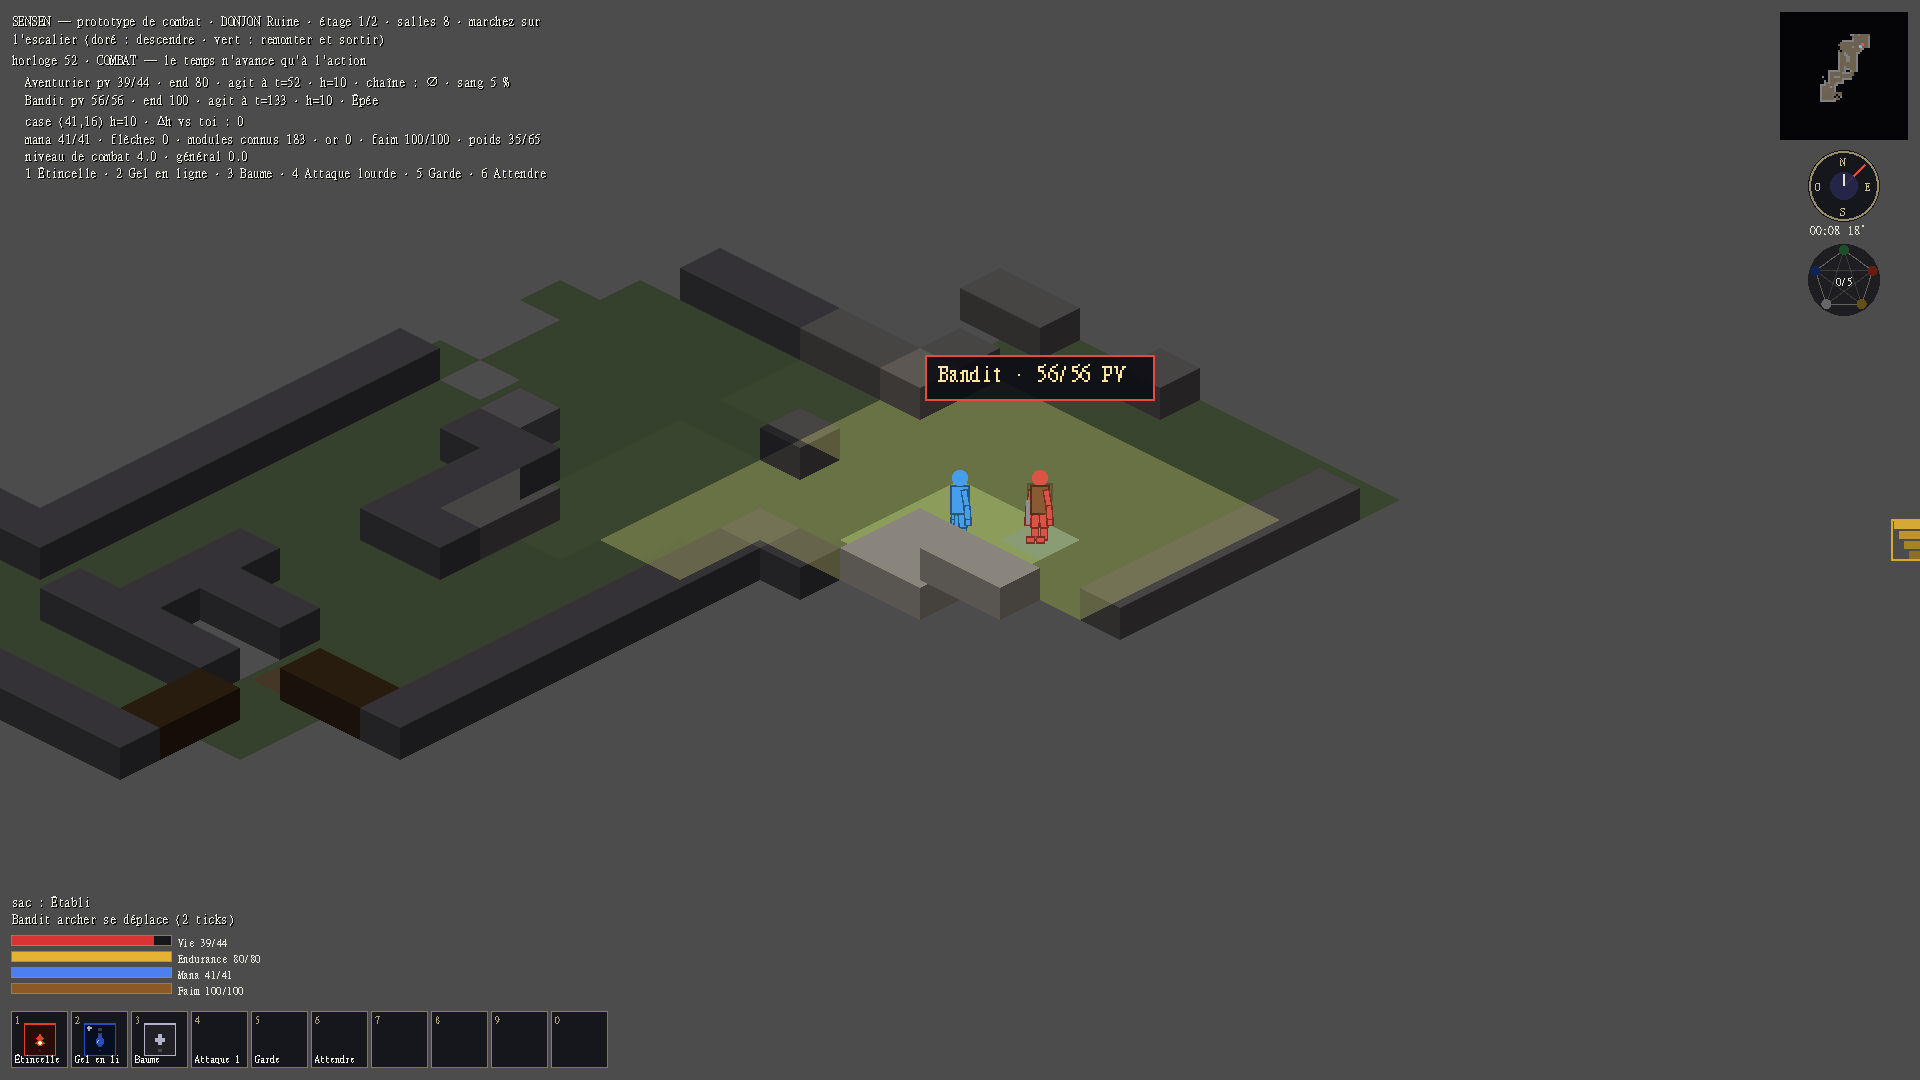
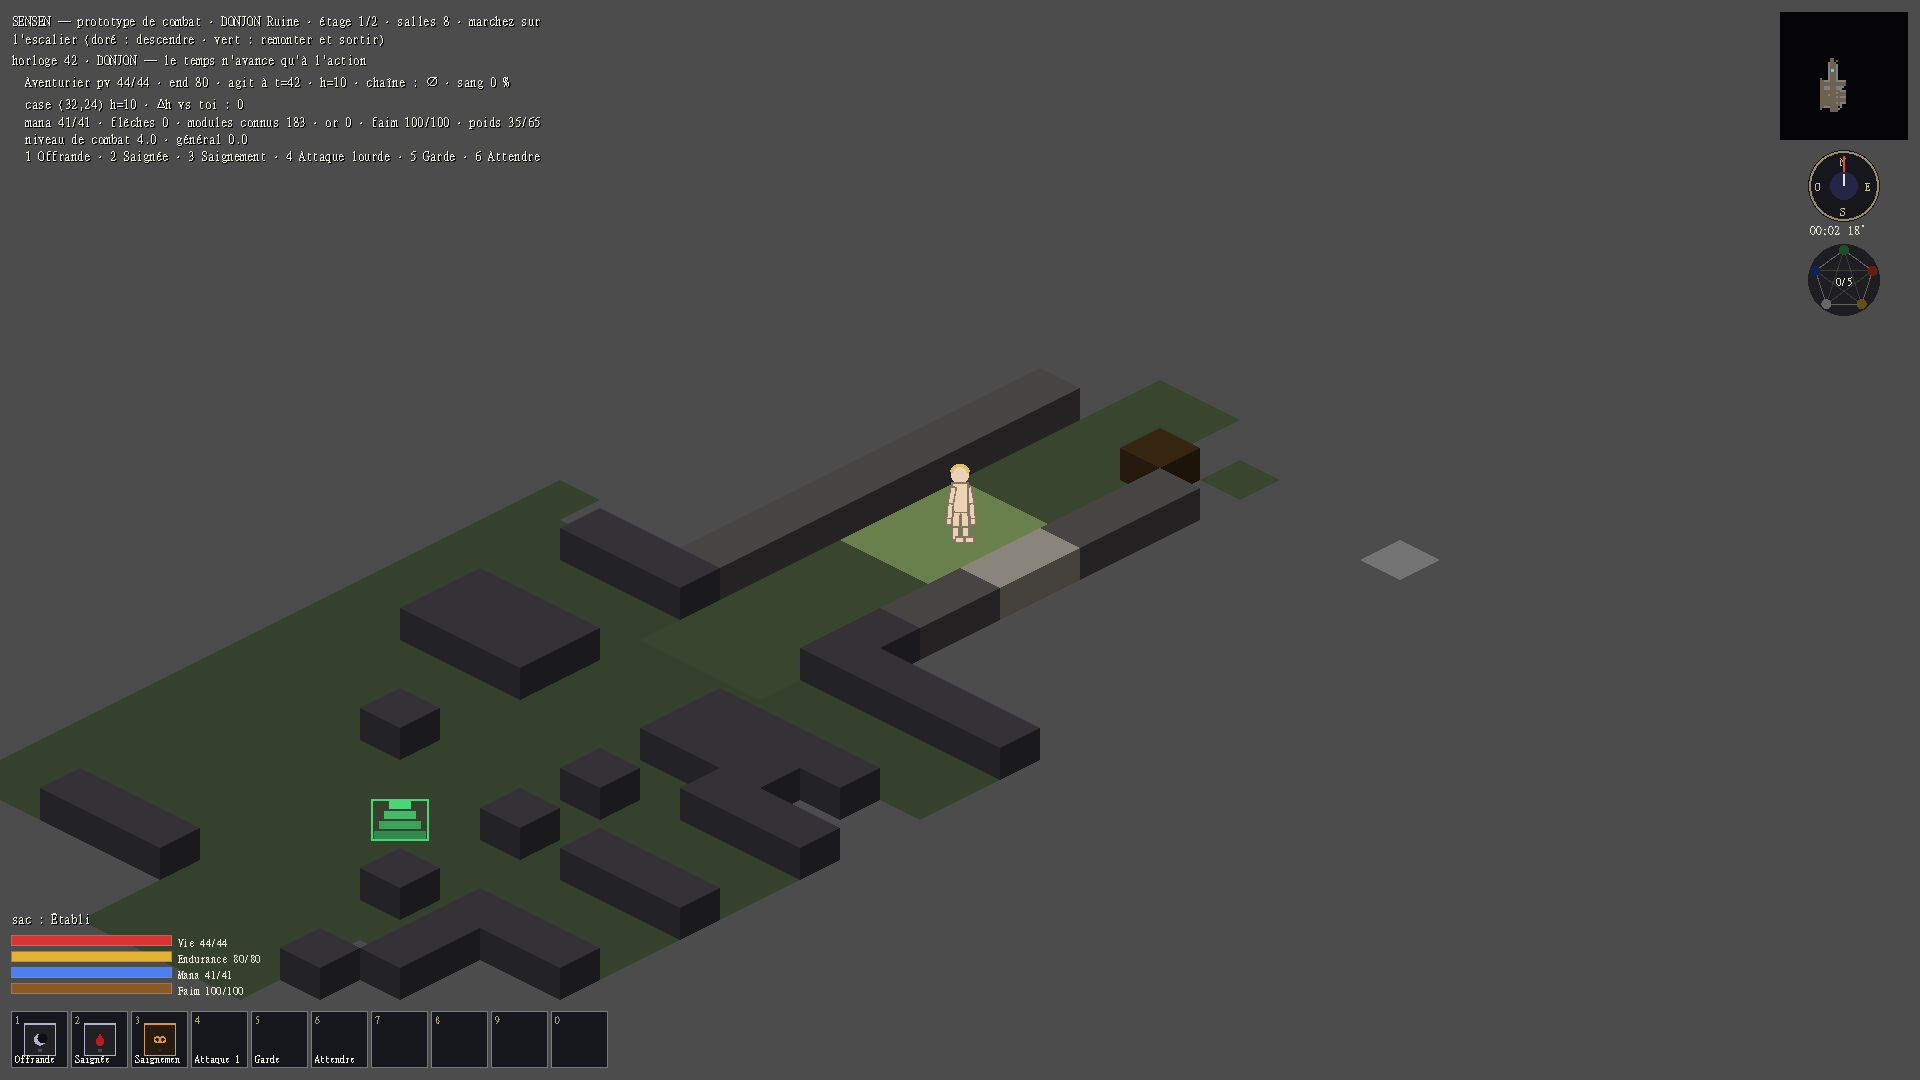
Donjons carres, plus de gel, et le loot pour tous
Le monde d'un donjon n'avance plus que de cinq ticks et douze
millisecondes par image : le gel disparait sans ralentir le jeu. Les
etages deviennent franchement architecturaux -- salles carrees jusqu'a
vingt-six de cote, couloirs droits et larges, branchements nombreux -- et
la generation redescend a 55 ms en tirant ses impasses par piece au lieu
de recopier tout le sol. Marcher sur un ennemi adjacent le frappe, le
voile jaune disparait, E ne casse plus les murs ni le sol, les meubles
sont des blocs plus petits que leur case, chaque ennemi laisse un objet,
les coffres doublent, et le clic droit ouvre les actions d'un objet du sac.

diff --git a/docs/00 - Index/Vers la production.md b/docs/00 - Index/Vers la production.md
@@ -64,6 +64,12 @@ etape: 0
 > **Ajout du designer (2026-08-31, 3 h 25)** : 29. **Corrigé (2026-08-31, 3 h 40)** — ce n'était pas le CPU : la cadence de lisibilité (0,12 s par pas) s'appliquait à l'horloge du monde du donjon, et chaque « attend » de chaque PNJ la consommait (30 PNJ ≈ 4 s de gel par action du joueur) ; l'horloge du monde se vide maintenant chaque image ([[Boucle de tick]]). **Le jeu lague énormément en donjon** (« ça galère à calculer tous les PNJ ? peut-être une réécriture C++ ? ») — diagnostiquer d'abord, chiffrer, corriger ; la question C++/GDExtension reste ouverte (point 5) et n'est tranchée qu'avec des mesures.
 > **Ajout du designer (2026-08-31, 3 h 45)** : 30. **Fait (2026-08-31, 5 h)** — matrice de quatre parcours (`parcours.tscn --classe --race --equiper --sorts`, film 30 s dans `captures_ecran/`) : Le Sabre humain équipé lourd, La Paume elfe (18 sorts lancés, 0 refusé, 3 morts), La Braise mage (9 sorts, 3 morts à l'étage 1 en 36 images), L'Ombre vampire (16 sorts, 0 mort, propre). **Zéro erreur de script** : le no-limit tient sous sorts aléatoires + équipement généré. Constat d'équilibre pour [[À juger — parcours de jeu]] § 3 : les profils fragiles meurent en boucle à l'étage 1 (la question « premier combat = mur » se confirme classe par classe). **Tester le dungeon crawling avec plein d'équipements, de sorts et de classes différents** — le robot s'équipe (objets assemblés, affixes), compose des sorts variés et les lance en combat, sur plusieurs classes ; corriger ce qui casse.
 > **Pré-version v0.1.6-alpha (2026-08-31, 18 h 25)** — dix commits depuis v0.1.5 : l'exécutable est reconstruit (`build/Sensen.exe`, 106 Mo) et archivé (`build/Sensen-v0.1.6-alpha-win64.zip`, 37 Mo), le **tag est poussé**. La publication de la release GitHub elle-même n'a pas pu être faite cette fois : la lecture du jeton du gestionnaire d'identifiants a été refusée par la politique d'outils de la session. L'archive et le tag attendent ; il suffit de téléverser l'archive sur la release du tag (ou de m'autoriser à relire le jeton) pour la publier.
+> **Ajout du designer (2026-08-31, 19 h 40)** : 46. **Fait (2026-08-31, 20 h 30)** — (a) le monde n'avance plus que de **5 ticks et 12 ms par image** (chiffres en données, `combat_rules.tempo`) : plus de gel ; (b) le voile jaune des tuiles atteignables est retiré, et avec lui son flood par image ; (c) marcher sur un ennemi adjacent l'attaque ; (d) donjons carrés — salles carrées jusqu'à 26 de côté, couloirs droits de 2-3 tuiles, 6 à 12 branchements ; (e) tout ennemi lâche du loot (0,25 → 1) et les coffres doublent (1 tuile sur 18) ; (f) chaque meuble porte une `emprise` et n'occupe plus toute sa case ; (g) creuser un mur, abaisser et élever le sol quittent le menu E ; (h) clic droit sur un objet du sac : équiper, lire, manger, sertir, poser, jeter. Au passage, la génération repassait à 103 ms (budget 100) à cause d'un `sol.keys()` par impasse sur des salles immenses — tirage par pièce, **55 ms** mesurés. **Huit demandes** — (a) **gros lag et freeze encore en donjon** : plafonner à **5 ticks par seconde réelle** au maximum ;
+> (b) **retirer l'overlay jaune** autour du personnage quand on s'approche d'un ennemi ; (c) **se diriger vers un ennemi adjacent l'attaque au corps à corps** au lieu de ne rien faire ;
+> (d) **génération de donjon beaucoup plus carrée, beaucoup moins organique** : des salles carrées de toutes tailles, des couloirs avec branchements, de grands espaces ouverts ;
+> (e) **des coffres**, et **tous les ennemis lâchent du loot** ; (f) un **meuble (coffre compris) est un bloc plus petit** qui ne remplit pas la case ;
+> (g) **retirer la casse de blocs et de sol avec E** ; (h) **clic droit sur les objets de l'inventaire**.
+> — [[Génération de donjon]], [[Écrans d'interface]], [[Boucle de tick]], [[Loot — affixes, gemmes et rareté]], [[Meubles]]
 > **Ajout du designer (2026-08-31, 18 h 40)** : 45. **Fait (2026-08-31, 19 h 30)** — charges supprimées du moteur, des données, du composeur et des règles (apprendre = définitif) ; tout livre n'enseigne qu'un module, grimoire et manuel se distinguant par leur pool (magique / corporel) ; les 19 classes déclarent leurs trois capacités signature et leur loadout de hotbar ; l'écran de création perd ses lignes de sorts ; le menu du clic droit perd ses neuf capacités déguisées. **Cinq changements de règle** — (a) **charges infinies** : apprendre un module est **définitif**, plus de munitions ; (b) **chaque classe a son loadout de hotbar** (armes et sorts) ; (c) **plus de sorts proposés à la création** — les sorts sont ceux de la classe ; (d) **plus de capacités spéciales au clic droit** : tout passe par les modules ; (e) **un livre ne contient qu'un module**. — [[Grimoires et manuels]], [[Structure compétences-modules-slots]], [[Écrans d'interface]], [[Lecture des livres]]
 > **Ajout du designer (2026-08-31, 17 h 50)** : 44. **Fait (2026-08-31, 18 h 20)** — ligne « Espèce » à la création : les 40 créatures du catalogue sont jouables (`Etres.appliquer_espece` remplace squelette, silhouette, teinte et actions naturelles, garde classe, points et sorts) ; les loci du visage et le portrait ne s'affichent que pour une silhouette humanoïde. Quatre loci de plus pour tous : taille, sourcils, barbe et marque. Test : chaque espèce jouable a bien un rig au catalogue. **Jouer n'importe quelle espèce, et plus de personnalisation** — toutes les créatures du catalogue doivent être choisissables à la création (loup, araignée, tengu…), et l'apparence doit offrir davantage de réglages. — [[Écrans d'interface]], [[Apparence — données et équipement]], [[Créatures]]
 > **Ajout du designer (2026-08-31, 17 h 15)** : 43. **Fait (2026-08-31, 17 h 40)** — avatar à ×5,4, portrait du visage à sa droite dans un cadre qui rogne (le même paperdoll, zoomé — pas un second dessin à maintenir), et le teint peint désormais le corps entier : la ligne « Teinte » et sa palette d'atelier ont disparu des données et des locales. **Un avatar plus grand et un portrait** — agrandir le personnage à l'écran de création, poser à sa droite une **vue du seul visage**, et peindre **tout le corps de la couleur de la peau** : le personnage est nu (sans détail anatomique). — [[Écrans d'interface]], [[Apparence — données et équipement]]

diff --git a/docs/02 - Monde/Génération de donjon.md b/docs/02 - Monde/Génération de donjon.md
@@ -108,6 +108,11 @@ NETTOYAGE ET DISPARITION (3.5) : à la mort du boss (`creature_killed`
 > [!success] Décidé et codé le 2026-08-31 — de vrais escaliers, pris en marchant (designer, point 36)
 > Les losanges doré et vert deviennent de **vraies marches dessinées par code** (quatre degrés qui rétrécissent, doré = descente, vert = montée), et **marcher sur l'escalier change d'étage automatiquement** : le pas du joueur qui arrive sur la cage déclenche la descente (ou la remontée — sur l'étage 1, elle fait ressortir au camp). Les intentions `descendre`/`remonter`, la touche E et les options contextuelles restent valables (les tests et la triche s'en servent), mais ne sont plus nécessaires. Le spawn sur l'escalier d'arrivée ne re-déclenche rien : seul un **pas** sur la tuile compte. Les PNJ ne changent jamais d'étage. Le robot de parcours détecte le changement d'étage au lieu de l'ordonner.
 
+> [!success] Décidé et codé le 2026-08-31 — des donjons carrés (designer, point 46)
+> Le designer tranche contre l'organique : **salles carrées de toutes tailles** (4-6, 8-11, 13-17 et des **salles immenses** de 20 à 26 côtés), **couloirs droits** — un L franc, plus de marche au hasard — de deux à trois tuiles de large, et des **branchements** rectilignes plus nombreux (6 à 12 par étage). Deux drapeaux en données le pilotent, `salles_carrees` et `couloirs.droits` : un thème peut redevenir sinueux sans toucher au code. Les grands espaces ouverts viennent des salles immenses et des couloirs larges, pas d'un bruit de terrain.
+>
+> Au passage, deux règles du même jour : **tous les ennemis lâchent du loot** (`chance_tout_venant` passe de 0,25 à 1) et les **coffres doublent** (une tuile sur 18 au lieu de 40, un à trois objets). Un **meuble n'occupe plus toute sa case** : chaque fiche porte une `emprise` (0,58 pour un coffre, 0,78 pour un lit ou une station) et le bloc est dessiné d'autant plus petit et plus bas. Enfin, **E ne casse plus les blocs ni le sol** : creuser un mur, abaisser ou élever une tuile disparaissent du menu.
+
 ## Liens
 - **Dépend de** : [[Donjons — structure et intégration]], [[Salles et connecteurs]], [[Unification macro-micro]], [[Dérive de la corruption]]
 - **Alimente** : [[Loot — affixes, gemmes et rareté]], [[Trésors et artefacts]], [[Créatures]], [[Gabarit de quête]]
